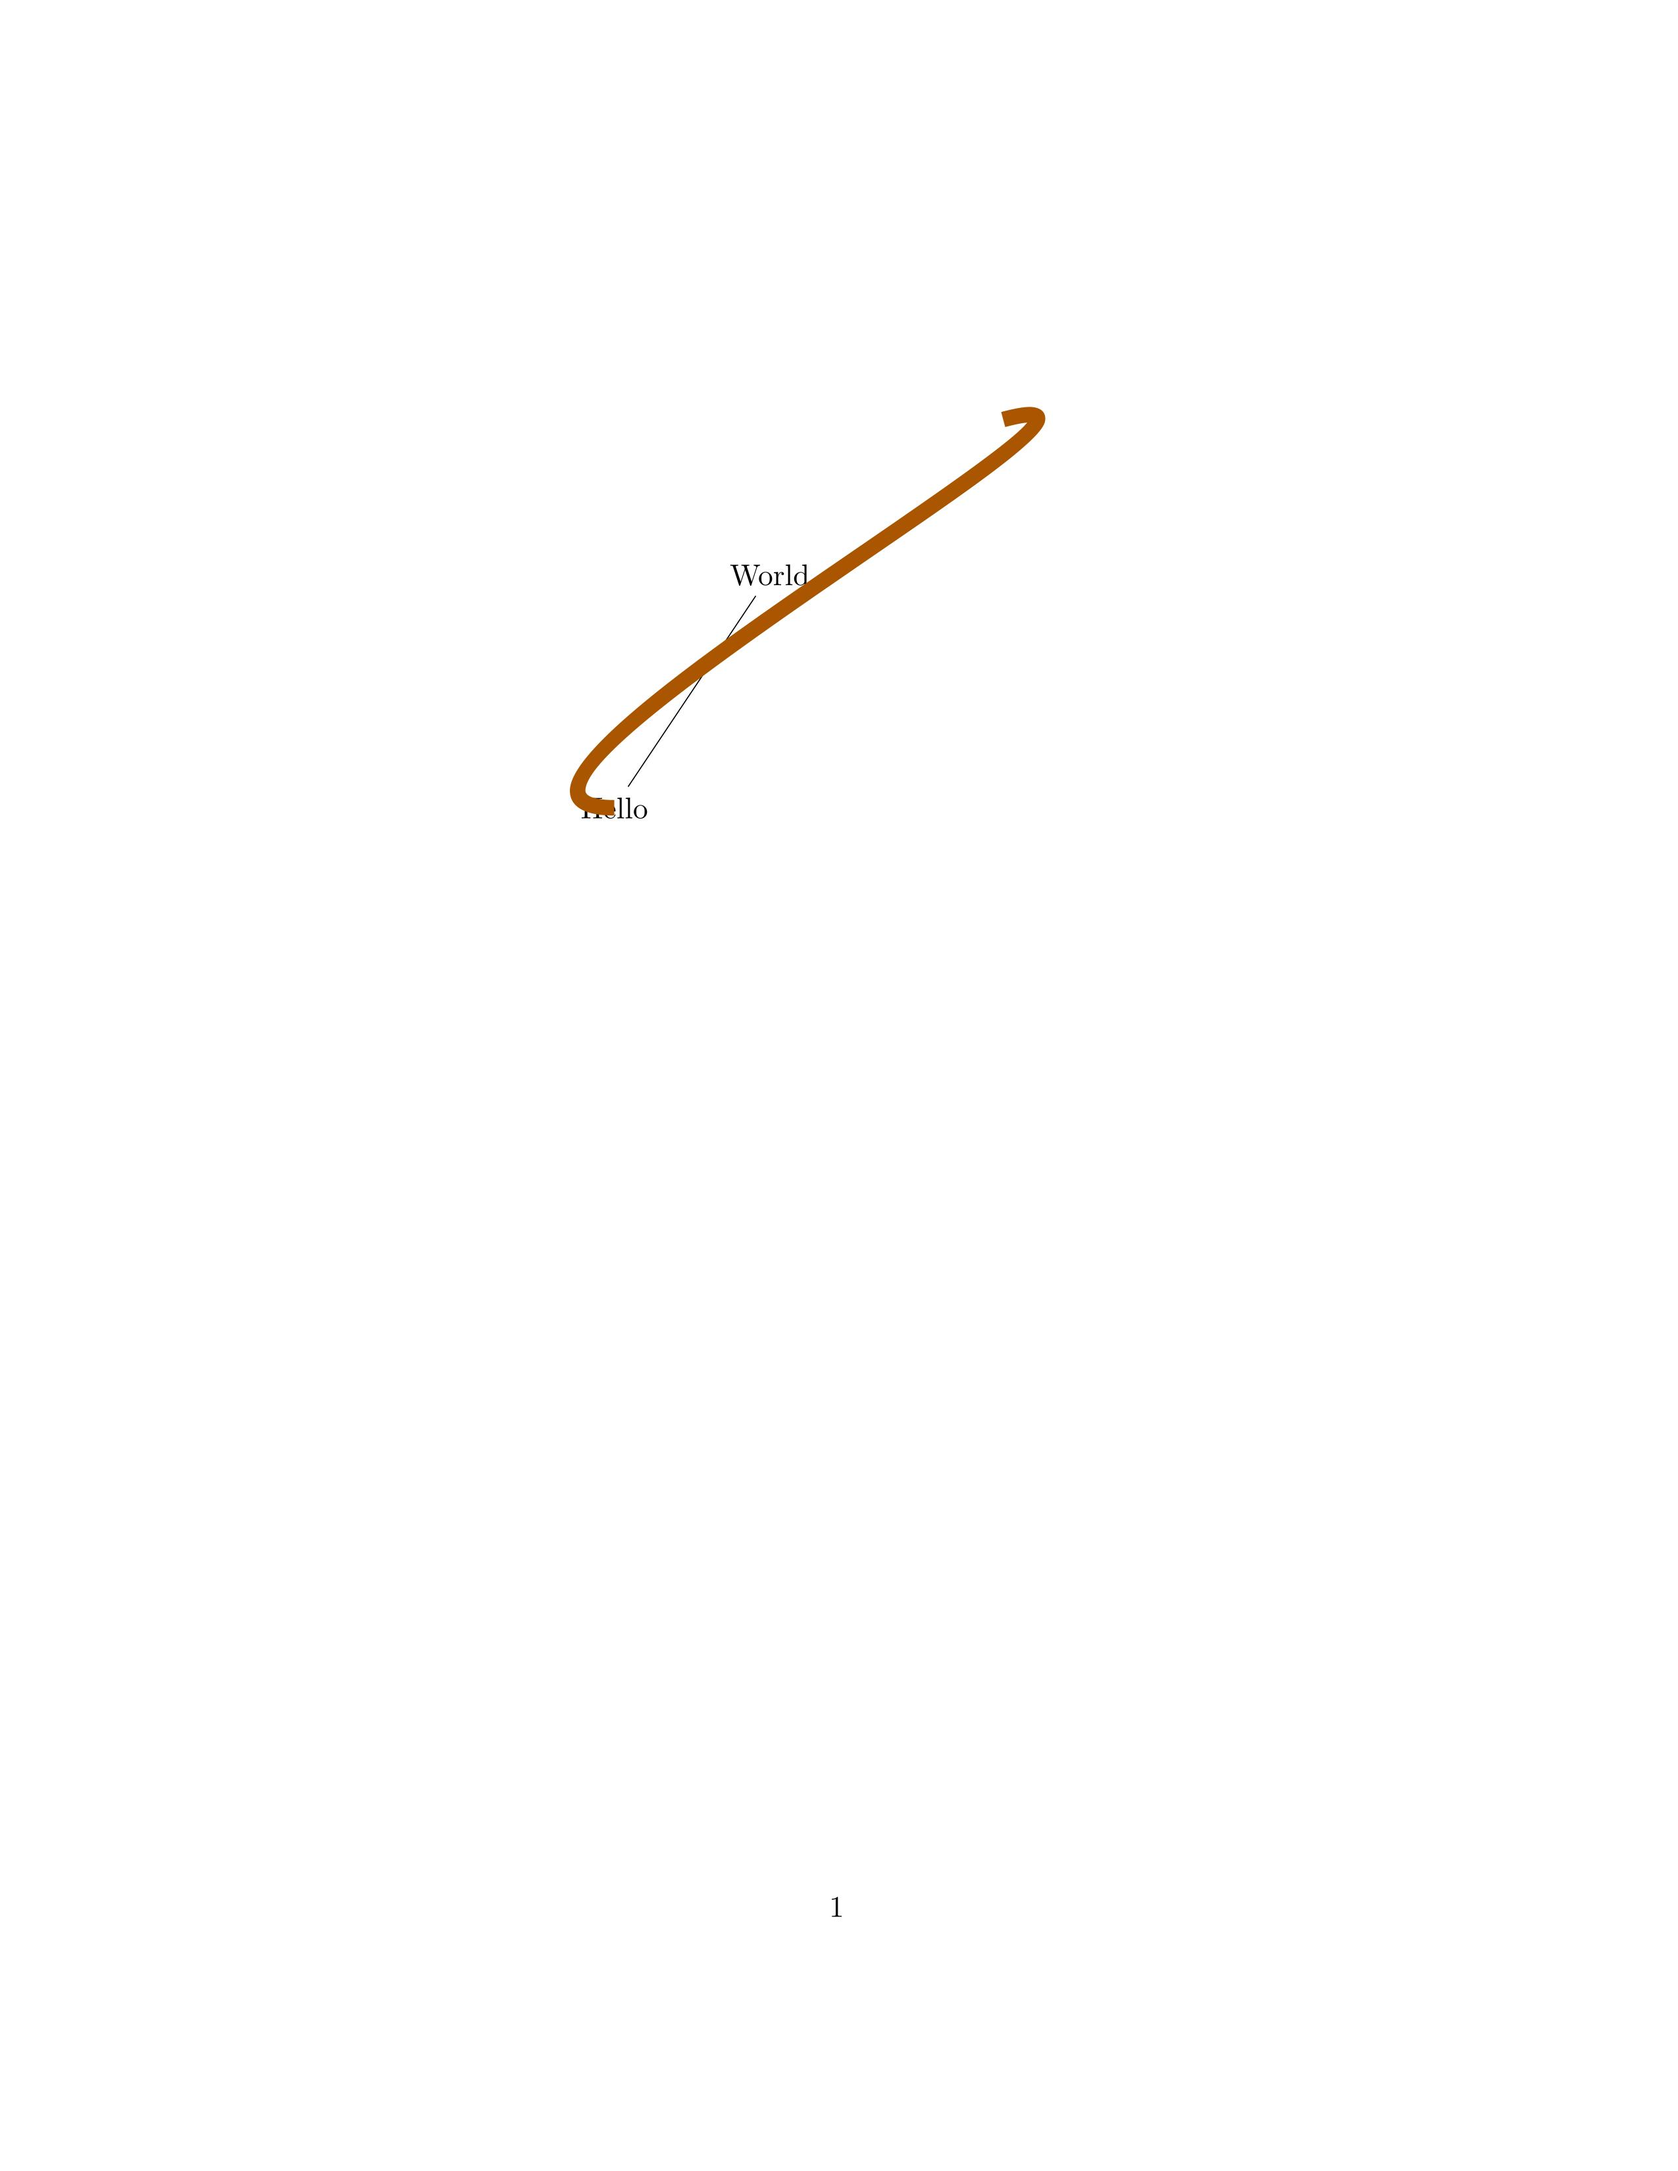
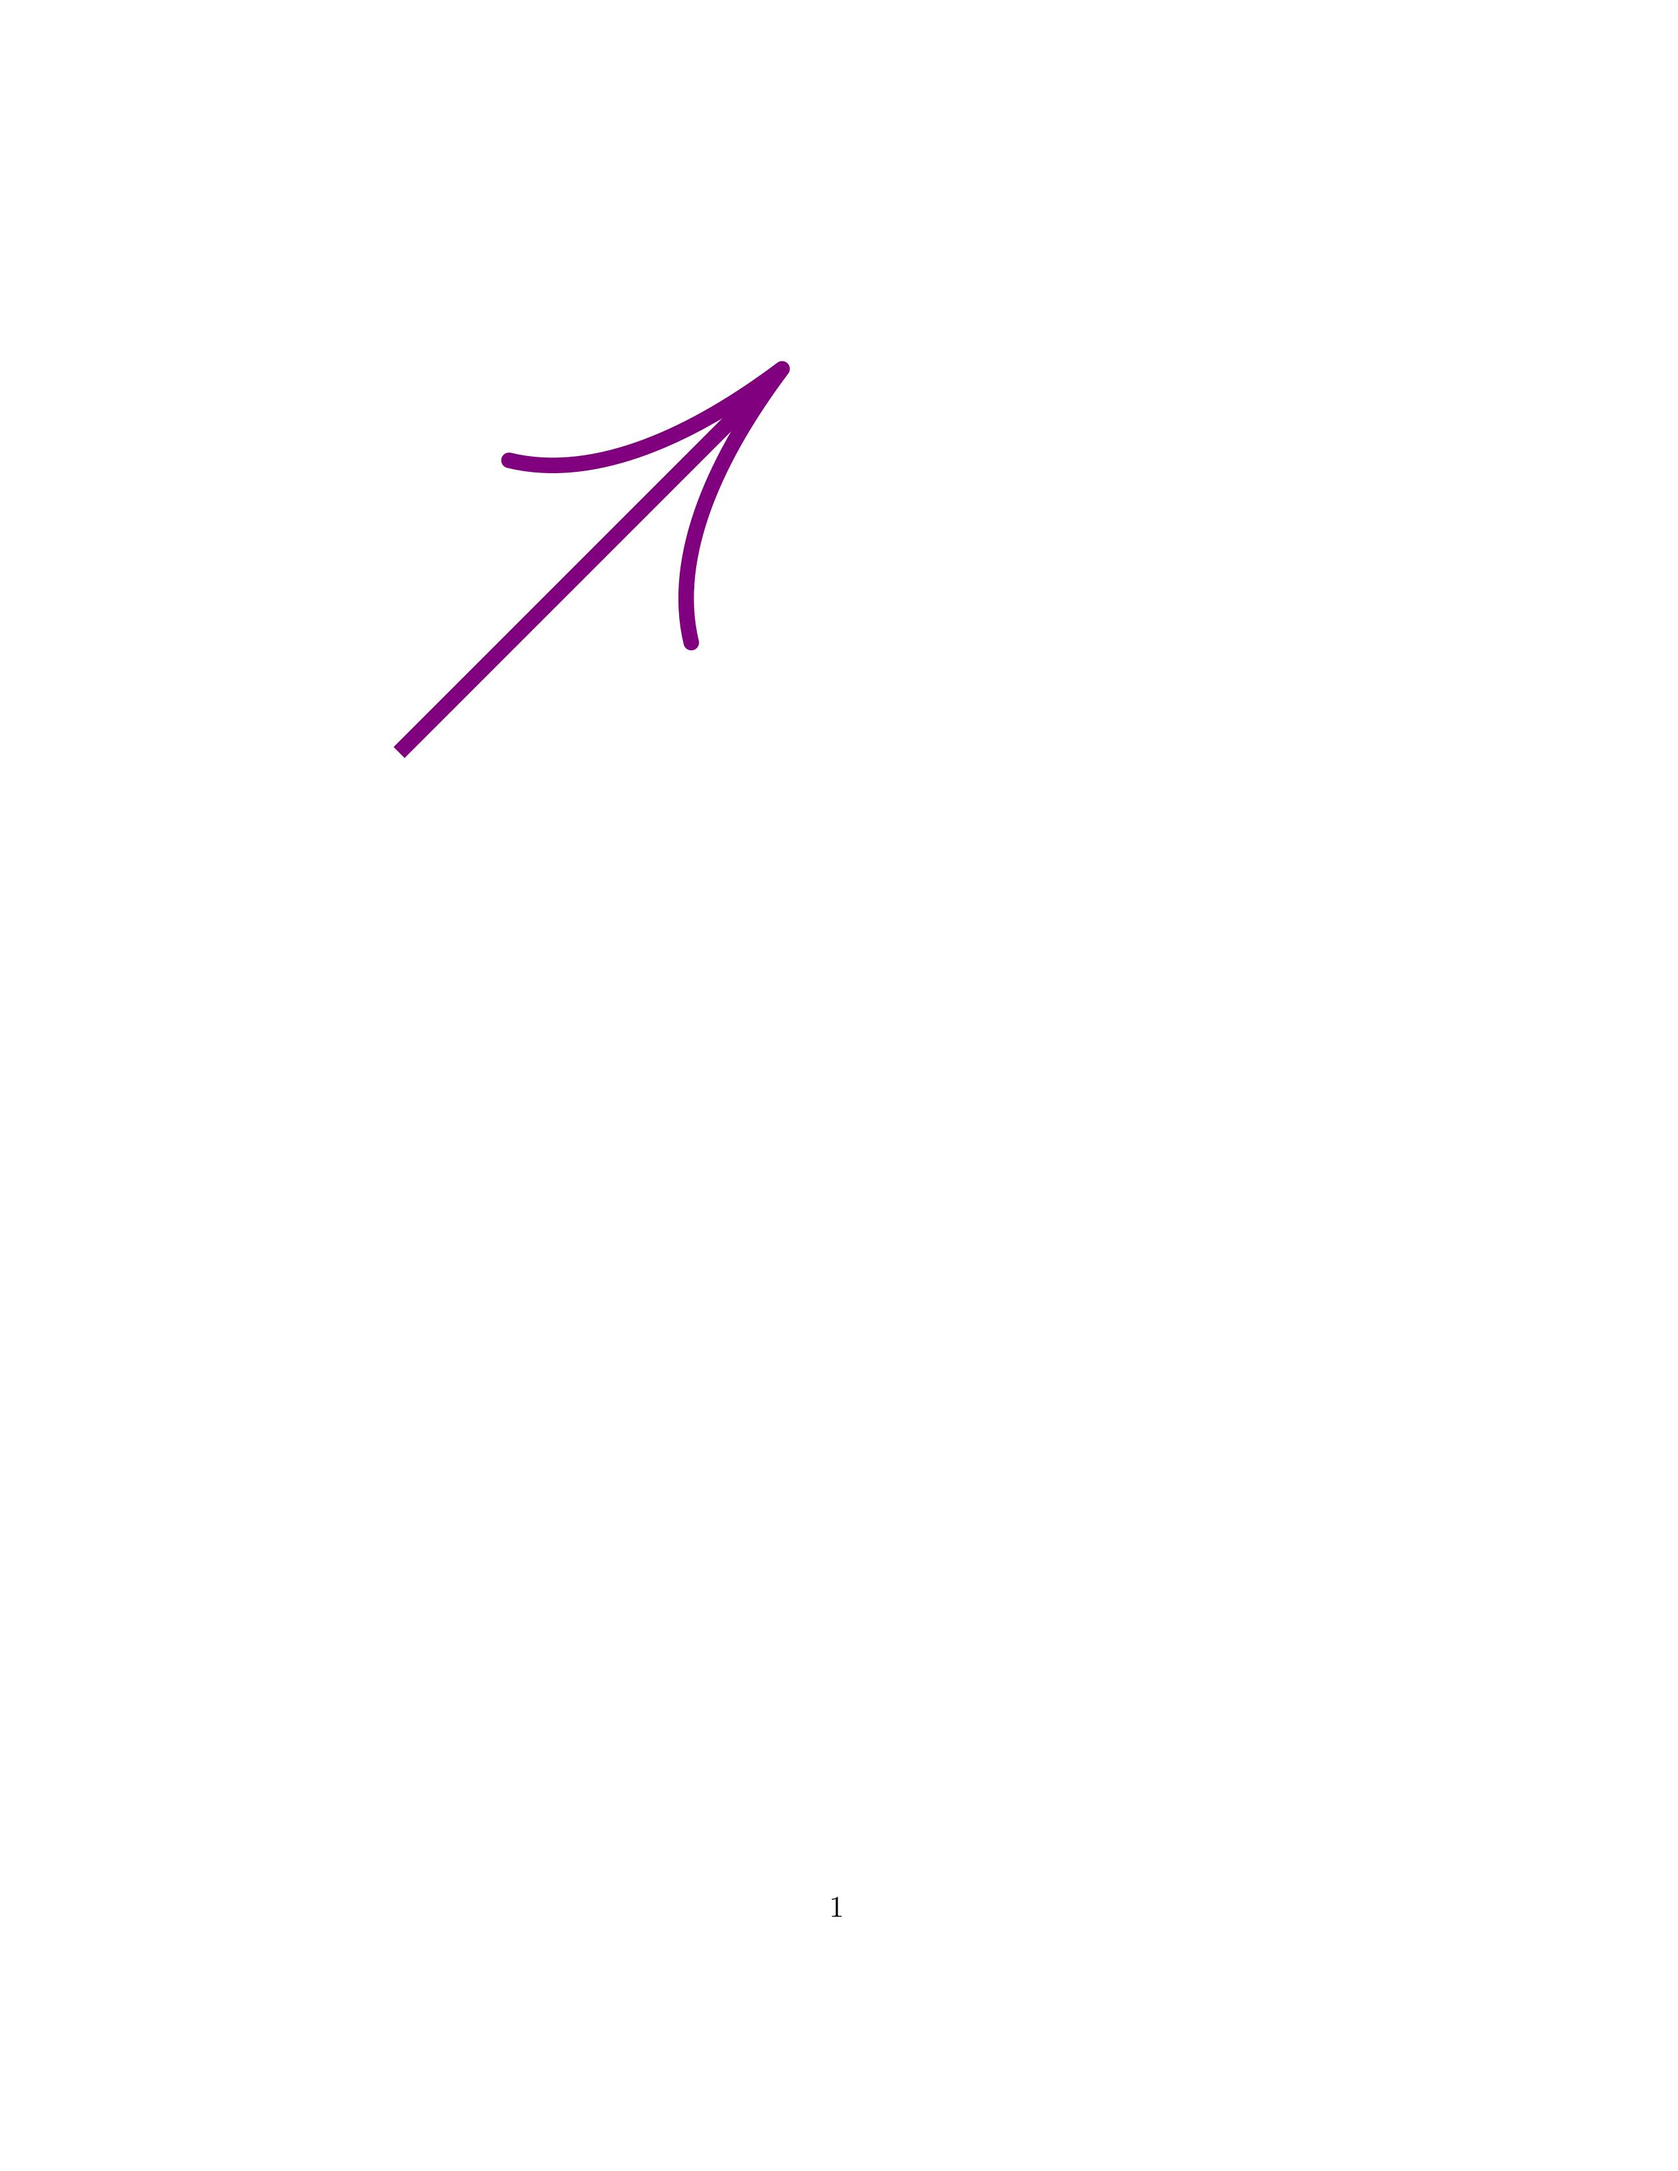
Arrow + Modif Curved + Add a line in the predetermine template file

diff --git a/src/Model/Shapes/Arrow.java b/src/Model/Shapes/Arrow.java
@@ -23,7 +23,27 @@ public class Arrow extends Link {
 
     @Override
     public String generateAndGetTikzCode() {
-        return null;
+
+      //  \draw [arrows={->[length=5mm,width=5mm]}, line width=1mm,
+        // color={rgb:red,2;green,0;blue,5}] (0.0,0.0) -- (5.0,5.0);
+        String code = "\\draw";
+
+        //Arrow
+        code += " [arrows={->[length=" + String.valueOf(getArrowHeadLength()) + "mm, width="
+                + String.valueOf(getArrowHeadWidth()) + "mm]}";
+
+        //Width
+        code += " ,line width=" + String.valueOf(getStrokeWidth()) + "mm";
+
+        //Color
+        code += " ,color={rgb:red," + String.valueOf(getColor().getRed()*100) + ";green," + String.valueOf(getColor().getGreen()*100);
+        code += ";blue," + String.valueOf(getColor().getBlue()*100) + "}]";
+
+        //Draw line Position
+        code += " (" + String.valueOf(getxOrigin()) + "," + String.valueOf(getyOrigin()) + ")";
+        code += " --";
+        code += " (" + String.valueOf(getxDestination()) + "," + String.valueOf(getyDestination()) + ");";
+        return code ;
     }
 
     public float getArrowHeadLength() {

diff --git a/Latex/amissena.tex b/Latex/amissena.tex
@@ -3,13 +3,11 @@
 
 % Packages
 \usepackage{tikz}
+\usetikzlibrary{arrows.meta}
 
 % Document
 \begin{document}
     \begin{tikzpicture}
-	\node (h) at (0,0) {Hello};
-	\node (w) at (2,3) {World};
-	\draw (h) edge (w);
-	\draw [line width=2.0mm ,color={rgb:red,100.0;green,50.0;blue,0.0}] (0.0,0.0) to[out=180.0,in=15.0](5.0,5.0);
+	\draw [arrows={->[length=100.0, width=100.0]} ,line width=2.0mm ,color={rgb:red,100.0;green,0.0;blue,100.0}] (0.0,0.0) -- (5.0,5.0);
     \end{tikzpicture}
 \end{document}

diff --git a/Latex/test.tex b/Latex/test.tex
@@ -1,6 +1,7 @@
 \documentclass{standalone}
 
 \usepackage{tikz}
+\usetikzlibrary{arrows.meta}
 
 \begin{document}
     \begin{tikzpicture}

diff --git a/Latex/ftrouill.tex b/Latex/ftrouill.tex
@@ -3,6 +3,7 @@
 
 % Packages
 \usepackage{tikz}
+\usetikzlibrary{arrows.meta}
 
 % Document
 \begin{document}
